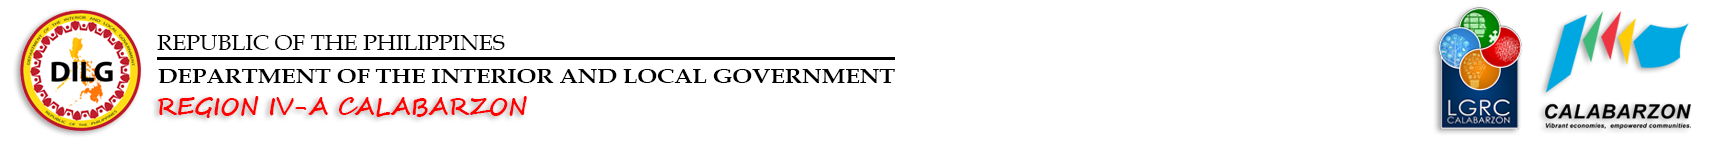
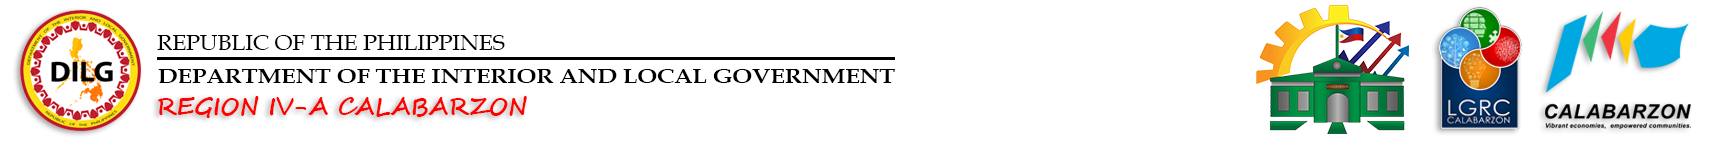
code refractor

Changed region(s): [[0.7154, 0.0276, 0.8088, 0.9379]]

diff --git a/frontend/css/style.css b/frontend/css/style.css
@@ -1,3 +1,4 @@
+
 .contact-us{
     color: #fff;
 }

diff --git a/views/dashboard/index.php b/views/dashboard/index.php
@@ -143,57 +143,7 @@
             </div>
         </div>
 
-        <div class="row">
-            <div class="col-lg-12">
-                <div class="card">
-                    <div class="card-header">
-                        <h5 class="header-title"> <i class="fa fa-folder"></i> Application List</h5>
-                    </div>
-                    <div class="card-body" style="background-color: #f9f8f8;">
-                        <table id="table1" class="table table-hover mb-0 border-bottom" style="width:100%;">
-                            <thead>
-                                <tr>
-                                    <th style="text-align: center; width:20%">Name</th>
-                                    <th style="text-align: center; width:20%">Agency Name</th>
-                                    <th style="text-align: center; width:20%">Location</th>
-                                    <th style="text-align: center; width:20%">Control No</th>
-                                    <th style="text-align: center; width:10%">Date Registered</th>
-                                    <th style="text-align: center; width:10%">Status</th>
-                                    <th style="text-align: center; width:15%">Action</th>
-                                </tr>
-                            </thead>
-                            <tbody>
-                                <?php
-                                include 'application/config/connection.php';
-
-                                $resultSet = $conn->query(" SELECT 
-                                ac.id as id,
-                                ai.CMLGOO_NAME as fname,
-                                ui.GOV_AGENCY_NAME as agency,
-                                ui.ADDRESS as address,
-                                DATE_FORMAT(ac.date_created, '%Y-%m-%d') as date_created,
-                                ui.id as userid,
-                                ac.control_no as control_no,
-                                ac.status as status
-                                FROM tbl_app_checklist ac
-                                LEFT JOIN tbl_userinfo ui on ui.id = ac.user_id
-                                LEFT JOIN tbl_admin_info ai on ui.user_id = ai.id");
-                                if ($resultSet->num_rows > 0) {
-                                    while ($row = $resultSet->fetch_assoc()) {
-                                        include 'establishment_table.php';
-                                    }
-                                }
-                                mysqli_close($conn);
-
-                                ?>
-
-                            </tbody>
-                        </table>
-                    </div>
-                </div>
-            </div>
-
-        </div>
+       
     </div>
 </div>
 <?php

diff --git a/base_navbar.php b/base_navbar.php
@@ -1,7 +1,7 @@
 <nav class="main-header navbar navbar-expand-md navbar-light navbar-dark">
   <div class="container">
     <a href="dashboard.v2.php" class="navbar-brand">
-      <img src="frontend/dist/img/SafetySealLogo.png" alt="SafetySeal Logo" class="brand-image img-circle elevation-3" style="opacity: .8; height: 40px;">
+      <img src="frontend/images/logo.png" alt="SafetySeal Logo" class="brand-image img-circle elevation-3" style="opacity: .8; height: 40px;">
       <span class="brand-text font-weight-light">SafetySeal</span>
     </a>
 

diff --git a/certified-establishments.php b/certified-establishments.php
@@ -4,7 +4,7 @@
 <?php include 'layout/header.html.php'; ?>
 <body>
     <main>
-        <div class="container" style="margin-top: 7%;">
+        <div class="container" style="margin-top: 4%;">
                 <?php include 'layout/navbar.php'; ?>
                 <?php include 'views/certified-establishments.php'; ?>
         </div>

diff --git a/complaints.php b/complaints.php
@@ -4,7 +4,7 @@
 <?php include 'layout/header.html.php'; ?>
 <body>
     <main>
-        <div class="container" style="margin-top: 7%;">
+        <div class="container" style="margin-top: 4%;">
                 <?php include 'layout/navbar.php'; ?>
                 <?php include 'views/complaints_view.php'; ?>
         </div>

diff --git a/inspection-and-certification-team.php b/inspection-and-certification-team.php
@@ -4,7 +4,7 @@
 <?php include 'layout/header.html.php'; ?>
 <body>
     <main>
-        <div class="container" style="margin-top: 7%;">
+        <div class="container" style="margin-top: 4%;">
                 <?php include 'layout/navbar.php'; ?>
                 <?php include 'views/inspection_view.php'; ?>
         </div>

diff --git a/index.php b/index.php
@@ -4,7 +4,7 @@
 <?php include 'layout/header.html.php'; ?>
 <body>
     <main>
-        <div class="container" style="margin-top: 10%;">
+        <div class="container" style="margin-top: 4%;">
                 <?php include 'layout/navbar.php'; ?>
                 <?php include 'views/homepage.html.php'; ?>
         </div>

diff --git a/guidelines.php b/guidelines.php
@@ -4,7 +4,7 @@
 <?php include 'layout/header.html.php'; ?>
 <body>
     <main>
-        <div class="container" style="margin-top: 7%;">
+        <div class="container" style="margin-top: 4%;">
                 <?php include 'layout/navbar.php'; ?>
                 <?php include 'views/guidelines.php'; ?>
         </div>
